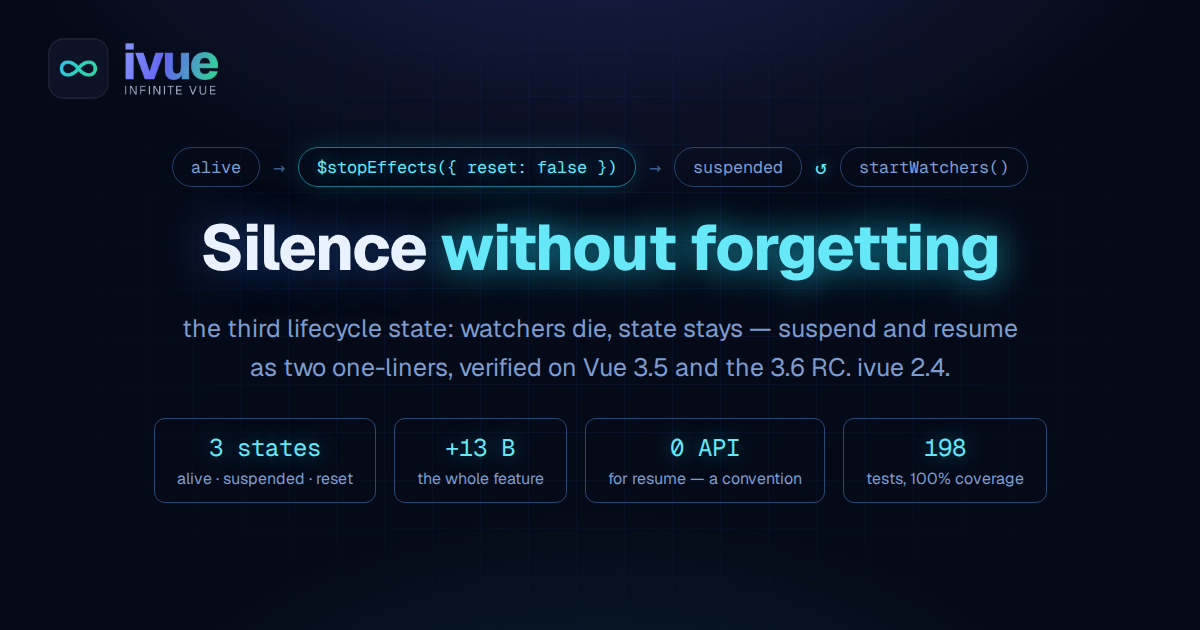
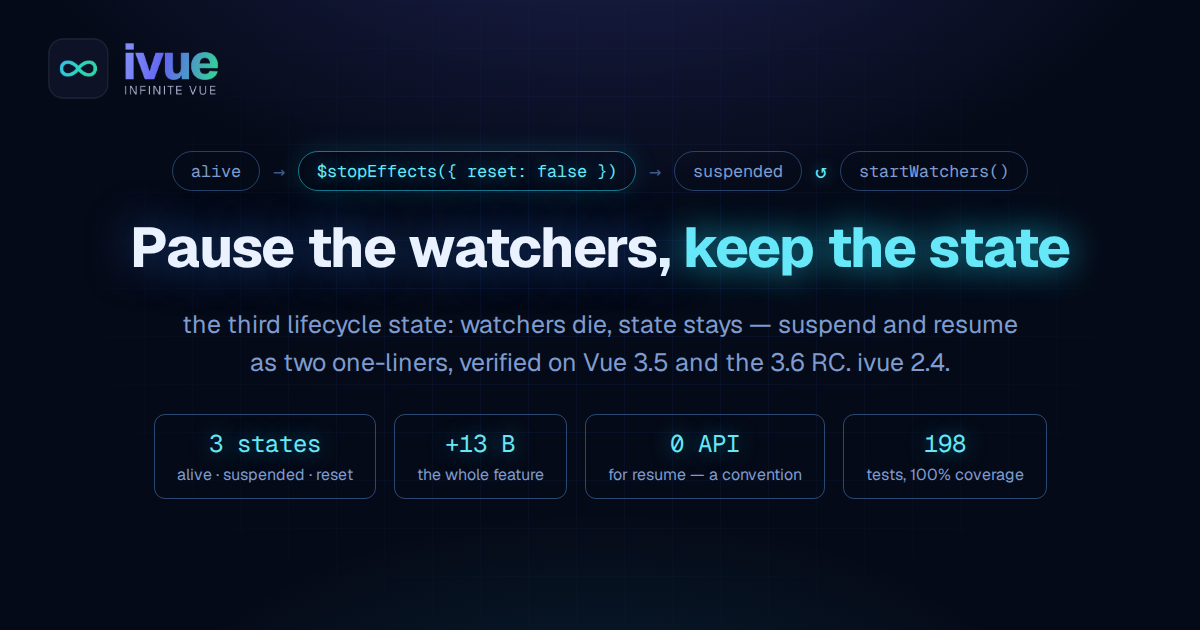
blog: retitle — Pause the watchers, keep the state
The title now says what the feature does; 'silence without
forgetting' stays as the essay's phrase, not its name.

diff --git a/.claude/skills/blog-banner/banners/pause-watchers-keep-the-state.html b/.claude/skills/blog-banner/banners/pause-watchers-keep-the-state.html
@@ -58,7 +58,7 @@
   .arrow { color: #3b5a8f; font-size: 20px; }
   .arrow.loop { color: #67e8f9; text-shadow: 0 0 14px rgba(34, 211, 238, 0.6); }
   .title {
-    font-size: 64px; font-weight: 750; color: #eaf2ff;
+    font-size: 56px; font-weight: 750; color: #eaf2ff;
     text-shadow: 0 0 44px rgba(59, 130, 246, 0.5); letter-spacing: -0.015em;
     line-height: 1.1;
   }
@@ -100,7 +100,7 @@
       <span class="arrow loop">↺</span>
       <span class="phase">startWatchers()</span>
     </div>
-    <div class="title">Silence <span class="glow">without forgetting</span></div>
+    <div class="title">Pause the watchers, <span class="glow">keep the state</span></div>
     <div class="sub">the third lifecycle state: watchers die, state stays — suspend and resume<br/>as two one-liners, verified on Vue 3.5 and the 3.6 RC. ivue 2.4.</div>
     <div class="stats">
       <div class="stat"><span class="n">3 states</span><span class="l">alive · suspended · reset</span></div>

diff --git a/docs_v2/blog/pause-watchers-keep-the-state.md b/docs_v2/blog/pause-watchers-keep-the-state.md
@@ -1,14 +1,14 @@
 ---
-title: 'Silence without forgetting'
+title: 'Pause the watchers, keep the state'
 description: "An object's lifecycle has a third state between alive and reset: suspended — side effects silent, data intact. ivue 2.4 adds it as one option on the existing verb, and the resume half costs no API at all."
 tags: [engine, patterns]
 relatedPosts: [disposal-is-a-reset, reactivity-is-an-allocator, twenty-million-cells, the-thinnest-possible-layer]
 date: 2026-08
 ---
 
-# Silence without forgetting
+# Pause the watchers, keep the state
 
-![Silence without forgetting](/blog/pause-watchers-keep-the-state.png)
+![Pause the watchers, keep the state](/blog/pause-watchers-keep-the-state.png)
 
 <BlogPostDate />
 
